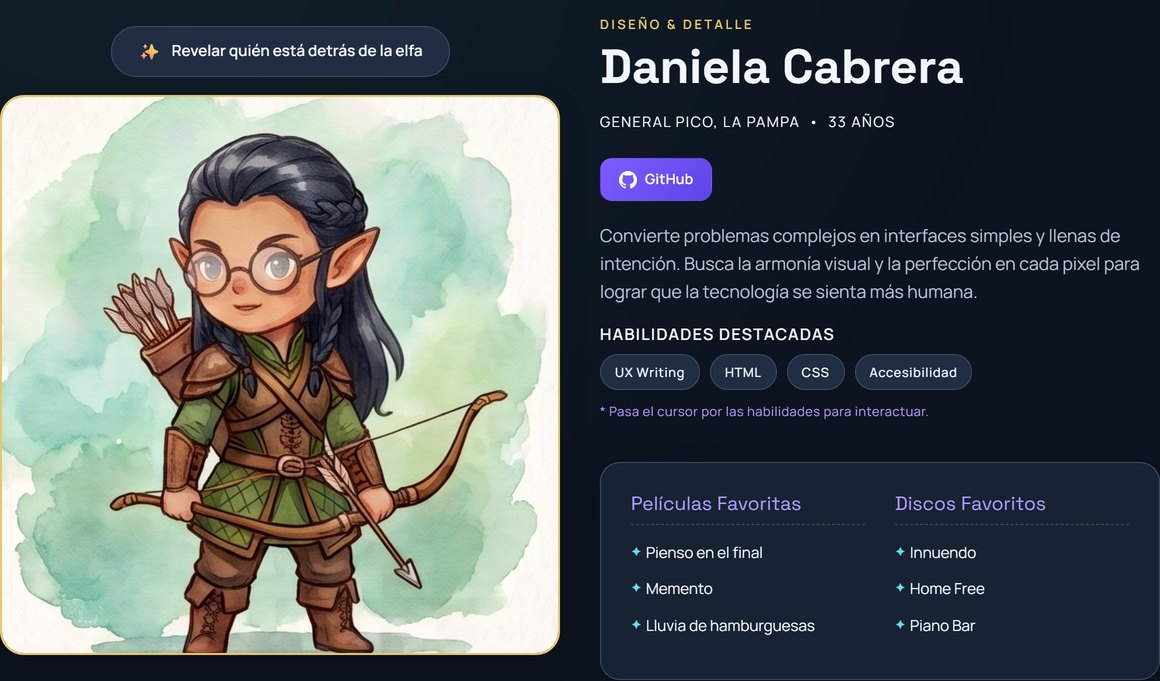
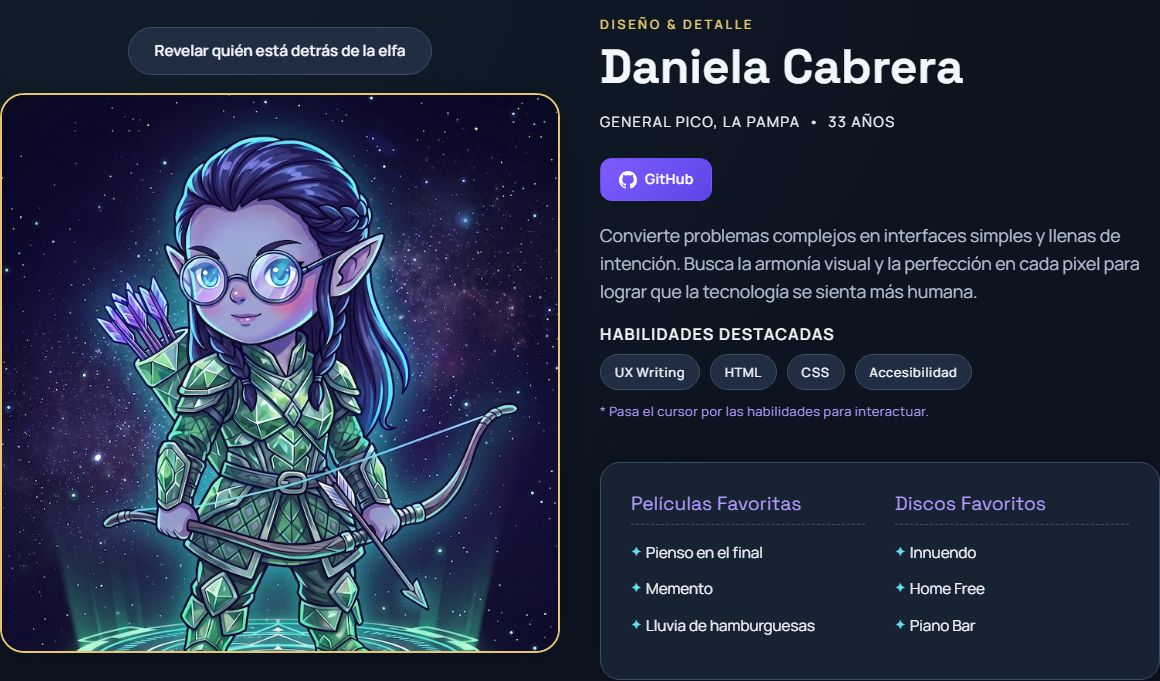
actualización README y capturas
Author: Juan Manuel Albareda PC Finanzas

diff --git a/README.md b/README.md
@@ -1,6 +1,6 @@
 # AACMP — Frontend Gems
 
-Primer Trabajo Práctico Grupal para la materia **Desarrollo de Sistemas Web Front End (2026)**. El sitio presenta al equipo de trabajo a través de una propuesta estética de *Acuarela Botánica Minimalista*, reúne perfiles individuales interactivos y documenta el proceso de desarrollo en una bitácora navegable.
+Primer Trabajo Práctico Grupal para la materia **Desarrollo de Sistemas Web Front End (2026)**. El sitio presenta al equipo de trabajo a través de una identidad de fantasía —una gema con una faceta por integrante y un personaje ilustrado para cada uno—, reúne perfiles individuales interactivos y documenta el proceso de desarrollo en una bitácora navegable.
 
 **Cinco almas, una misión**: distintas miradas que aportan, cada una desde lo suyo, a una misma construcción.
 
@@ -53,15 +53,16 @@ TP1-DSWF-AACMP/
 │   └── hechizo.css       # Botón y animación del revelado en los perfiles
 ├── js/
 │   ├── theme.js          # Modo claro/oscuro, recordando la preferencia
-│   ├── main.js           # Portada: mezclador, tarjetas giratorias, ScrollSpy
+│   ├── main.js           # Menú y animaciones en todo el sitio; mezclador, tarjetas y ScrollSpy en la portada
 │   └── hechizo.js        # Revelado del avatar y sonido con Web Audio API
 ├── img/
-│   ├── <nombre>.jpg          # Avatar ilustrado de cada integrante
-│   ├── <nombre>-real.jpg     # Imagen que revela el hechizo
-│   ├── gema-<nombre>.svg     # Faceta de cada integrante (respaldo del hechizo)
-│   ├── fondo-*.svg           # Fondos de hojas, estrellas y montañas
-│   ├── favicon.svg           # La gema del equipo como ícono
-│   └── apple-touch-icon.png  # Ícono para pantalla de inicio en iOS
+│   ├── <nombre>{300,720,1500}.webp      # Avatar de cada integrante en tres tamaños
+│   ├── <nombre>Dark{300,720,1500}.webp  # Su variante para el tema oscuro
+│   ├── <nombre>-real.jpg                # Imagen que revela el hechizo
+│   ├── gema-<nombre>.svg                # Faceta de cada integrante (respaldo del hechizo)
+│   ├── fondo-*.svg                      # Fondos de hojas, estrellas y montañas
+│   ├── favicon.svg                      # La gema del equipo como ícono
+│   └── apple-touch-icon.png             # Ícono para pantalla de inicio en iOS
 ├── docs/
 │   └── capturas/         # Capturas de las funciones JavaScript, para este README
 └── README.md
@@ -73,7 +74,7 @@ TP1-DSWF-AACMP/
 
 ## Guía de Estilos (Sistema de Diseño)
 
-El sistema visual parte de la propuesta de acuarela botánica —viva en los avatares, los fondos y la gema— sobre una paleta de dos temas, claro y oscuro.
+El sistema visual combina la gema del equipo, los personajes ilustrados y fondos de hojas, estrellas y montañas, sobre una paleta de dos temas, claro y oscuro.
 
 ### Paleta de Colores
 
@@ -157,12 +158,12 @@ El sonido **no es un archivo**: se sintetiza en el momento con la **Web Audio AP
 
 Los avatares que originalmente eran pesados archivos jpg se convirtieron a un formato más liviano (WebP) y se generaron en varios tamaños para evitar descargar imágenes más pesadas de lo necesario:
 
-- En las tarjetas de la portada se usan variantes de **300 px** y **720 px**.
-- En los perfiles individuales se usan variantes de **720 px** y **1500 px**.
+- En la portada se usa sólo la variante de **300 px**, que alcanza para el tamaño de las tarjetas.
+- En los perfiles se usan **720 px** y **1500 px** con `srcset` y `sizes`, para que el navegador elija según la pantalla.
 
-Cada etiqueta `<img>` usa `srcset` y `sizes` para que el navegador elija automáticamente el archivo más adecuado según el espacio disponible y la densidad de la pantalla. También se mantienen versiones claras y oscuras de cada avatar, que se intercambian al cambiar el tema.
+También se mantienen versiones claras y oscuras de cada avatar, que se intercambian al cambiar el tema.
 
-Las imagenes se cargan de forma diferida con loading=lazy y decoding=async para evitar sobrecargar el navegador durante la carga de la página.
+En la portada las imágenes cargan diferidas (`loading="lazy"`). En el perfil el avatar carga con prioridad (`fetchpriority="high"`), porque es lo primero que se ve.
 
 ## Uso de Inteligencia Artificial y Autoría
 
@@ -171,7 +172,7 @@ Se emplearon herramientas de **Inteligencia Artificial** —ChatGPT (GPT-5.5), C
 - Interpretación inicial de consignas y estructuración del layout HTML.
 - Sugerencia de fórmulas matemáticas para lavados de acuarela en CSS y animaciones `@keyframes`.
 - Generación de textos base y borradores para la bitácora.
-- Generación de los avatares y de la gema, con prompts que pedían ilustraciones en acuarela de personajes de fantasía, uno por integrante.
+- Generación de los avatares y de la gema, con prompts que pedían un personaje de fantasía por integrante, en versión clara y oscura, con un estilo común para todo el equipo.
 - Programación del sonido del hechizo: de la idea de «un ruidito de magia al tocar el botón» salió sintetizarlo con la Web Audio API, en lugar de usar un archivo de audio de terceros.
 - Sugerencias de optimización en base a informes de Lighthouse y varias propuestas de código.
 
